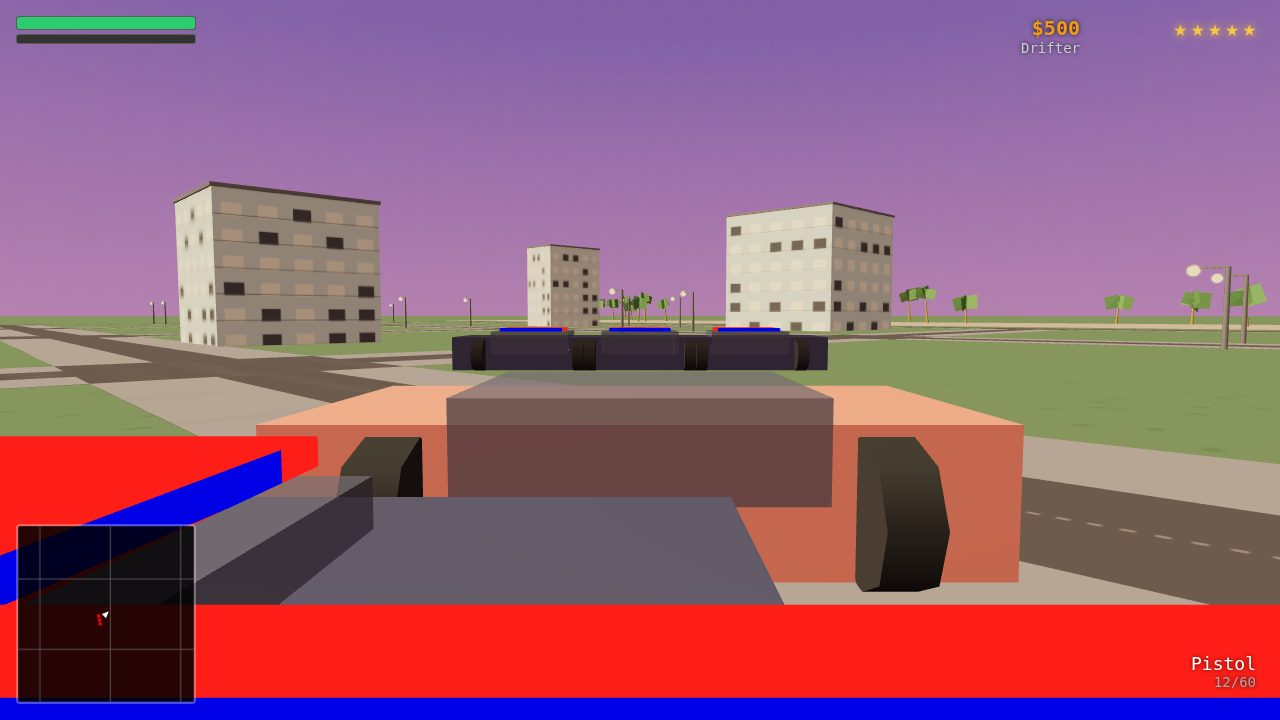
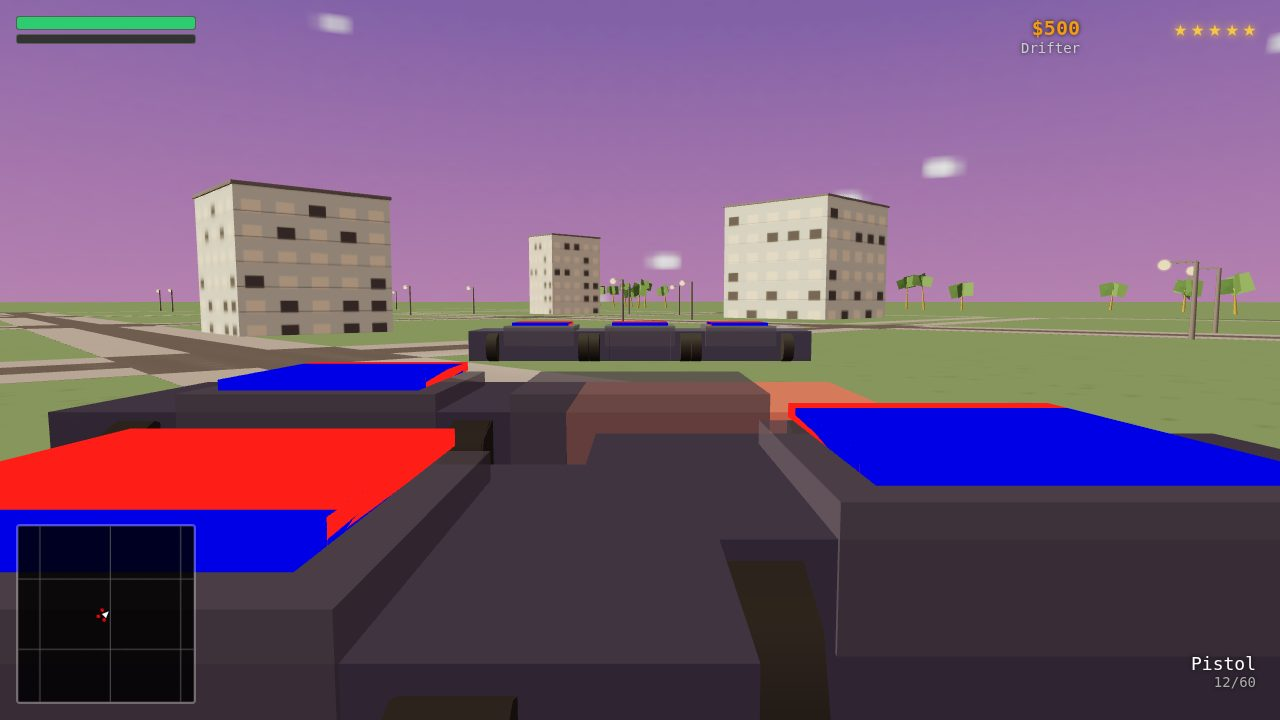
Polish screenshot staging: chase geometry, mission enemies, drive on-road

diff --git a/game/src/shots.js b/game/src/shots.js
@@ -267,7 +267,11 @@ export async function stageShot(name, seed, gameModules, renderer, scene, camera
   if (name === 'mission') {
     numSteps = 180;
 
-    player.setPlayerPosition(PLACES.coralFin.x, PLACES.coralFin.z, 0);
+    // Player on horizontal road z=64, in front of Coral Fin, facing east down the street
+    var missionPX = 10;
+    var missionPZ = 64;
+    var missionHeading = 0; // east (+x)
+    player.setPlayerPosition(missionPX, missionPZ, missionHeading);
     combat.switchWeapon(2);
 
     var mission = missions.startMission(4);
@@ -276,22 +280,32 @@ export async function stageShot(name, seed, gameModules, renderer, scene, camera
     }
 
     if (mission && mission.enemies) {
-      var enemyPositions = [
-        { x: PLACES.coralFin.x + 10,  z: PLACES.coralFin.z },
-        { x: PLACES.coralFin.x + 12,  z: PLACES.coralFin.z + 6 },
-        { x: PLACES.coralFin.x + 8,   z: PLACES.coralFin.z - 6 },
-        { x: PLACES.coralFin.x + 15,  z: PLACES.coralFin.z + 3 },
-        { x: PLACES.coralFin.x + 14,  z: PLACES.coralFin.z - 3 },
-        { x: PLACES.coralFin.x + 7,   z: PLACES.coralFin.z - 2 },
+      var cosH = Math.cos(missionHeading);
+      var sinH = Math.sin(missionHeading);
+
+      var enemyDefs = [
+        { forward: 6,  lateral: -3 },
+        { forward: 9,  lateral: 2.5 },
+        { forward: 12, lateral: 0 },
       ];
-      for (let i = 0; i < mission.enemies.length; i++) {
-        var e = mission.enemies[i];
-        var ep = enemyPositions[i] || enemyPositions[0];
-        e.x = ep.x;
-        e.z = ep.z;
-        if (e.mesh) {
-          e.mesh.position.x = ep.x;
-          e.mesh.position.z = ep.z;
+
+      for (var ei = 0; ei < mission.enemies.length; ei++) {
+        var e = mission.enemies[ei];
+        if (ei < 3) {
+          var def = enemyDefs[ei];
+          var ex = missionPX + cosH * def.forward + sinH * def.lateral;
+          var ez = missionPZ + sinH * def.forward - cosH * def.lateral;
+          e.x = ex;
+          e.z = ez;
+          if (e.mesh) {
+            e.mesh.position.x = ex;
+            e.mesh.position.z = ez;
+          }
+        } else {
+          e.alive = false;
+          if (e.mesh && e.mesh.parent) {
+            scene.remove(e.mesh);
+          }
         }
       }
     }
@@ -300,7 +314,11 @@ export async function stageShot(name, seed, gameModules, renderer, scene, camera
   if (name === 'drive') {
     numSteps = 120;
 
-    var sedan = vehicles.createCar('sedan', 380, 64, 0, false);
+    // Vertical road x=384 (Casino Row), car at z=80 heading south (+z)
+    var driveRoadX = 384;
+    var driveCarZ = 80;
+    var driveHeading = Math.PI / 2; // +z
+    var sedan = vehicles.createCar('sedan', driveRoadX, driveCarZ, driveHeading, false);
     if (sedan) {
       vehicles.enterCar(sedan, player.player.mesh);
       player.player.inCar = true;
@@ -309,10 +327,27 @@ export async function stageShot(name, seed, gameModules, renderer, scene, camera
       sedan.aiSpeed = 25;
     }
 
+    var cosDH = Math.cos(driveHeading);
+    var sinDH = Math.sin(driveHeading);
+
+    // Traffic cars 12m and 20m ahead on same road, same direction
+    var traffic1 = vehicles.createCar('taxi', driveRoadX + cosDH * 12, driveCarZ + sinDH * 12, driveHeading, false);
+    if (traffic1) { traffic1.speed = 12; traffic1.aiSpeed = 18; }
+
+    var traffic2 = vehicles.createCar('sports', driveRoadX + cosDH * 20, driveCarZ + sinDH * 20, driveHeading, false);
+    if (traffic2) { traffic2.speed = 15; traffic2.aiSpeed = 20; }
+
+    // Oncoming car 18m ahead in opposite lane (offset laterally by 1 lane width)
+    var oppLane = -3; // negative lateral = opposite lane side
+    var oncomingX = driveRoadX + cosDH * 18 + sinDH * oppLane;
+    var oncomingZ = driveCarZ + sinDH * 18 - cosDH * oppLane;
+    var oncoming = vehicles.createCar('comet', oncomingX, oncomingZ, driveHeading + Math.PI, false);
+    if (oncoming) { oncoming.speed = 10; oncoming.aiSpeed = 16; }
+
+    // Background traffic on Casino Row roads
     const roads = findCasinoRowRoads(world3d);
     const nearbyRoads = roads.length > 0 ? roads : world3d.roads;
-
-    for (let i = 0; i < 18; i++) {
+    for (let i = 0; i < 14; i++) {
       var road = rng.pick(nearbyRoads);
       var isVert = Math.abs(Math.sin(road.angle)) > 0.7;
       var angle = isVert ? Math.PI / 2 : 0;
@@ -344,9 +379,11 @@ export async function stageShot(name, seed, gameModules, renderer, scene, camera
       missions.cleanupMission(missions.activeMission);
       missions.activeMission = null;
     }
-    missions.setBeacon(PLACES.casino.x, PLACES.casino.z);
-    beaconX = PLACES.casino.x;
-    beaconZ = PLACES.casino.z;
+    // Beacon 60m down the same road so light pillar is visible ahead
+    var beaconZ = driveCarZ + 60;
+    missions.setBeacon(driveRoadX, beaconZ);
+    beaconX = driveRoadX;
+    beaconZ = beaconZ;
     missions.showDialogue('Go to the Port Azura Casino');
 
     if (audio) {
@@ -433,11 +470,11 @@ export async function stageShot(name, seed, gameModules, renderer, scene, camera
       police.officers.length = 0;
     }
 
-    // Place 3 cruisers at fixed offsets behind and beside player car
+    // Place 3 cruisers at fixed offsets between car and camera, flanking frame edges
     var cruiserOffsets = [
-      { behind: 8, lateral: 0 },
-      { behind: 6, lateral: 3 },
-      { behind: 10, lateral: -3 },
+      { behind: 5, lateral: -3 },
+      { behind: 6.5, lateral: 3 },
+      { behind: 0, lateral: 4.5 },
     ];
     for (var ci = 0; ci < 3; ci++) {
       var off = cruiserOffsets[ci];
@@ -519,7 +556,7 @@ export async function stageShot(name, seed, gameModules, renderer, scene, camera
     cone.position.set(0, -4.5, 1);
     heliGroup.add(cone);
 
-    heliGroup.position.set(pcx, 35, pcz - 8);
+    heliGroup.position.set(pcx + cosA * 15, 35, pcz + sinA * 15);
     scene.add(heliGroup);
 
     // Force wanted to 5 stars
@@ -546,10 +583,10 @@ export async function stageShot(name, seed, gameModules, renderer, scene, camera
     if (vehicles.playerCar) {
       var pcar = vehicles.playerCar;
       var cca = pcar.angle;
-      var bX = pcar.x - Math.cos(cca) * 8;
-      var bZ = pcar.z - Math.sin(cca) * 8;
-      camera.position.set(bX, 2.5, bZ);
-      camera.lookAt(pcar.x + Math.cos(cca) * 12, 1.2, pcar.z + Math.sin(cca) * 12);
+      var bX = pcar.x - Math.cos(cca) * 11;
+      var bZ = pcar.z - Math.sin(cca) * 11;
+      camera.position.set(bX, 3, bZ);
+      camera.lookAt(pcar.x + Math.cos(cca) * 10, 1.2, pcar.z + Math.sin(cca) * 10);
     }
 
     if (audio && audio.toggleRadio) {
@@ -560,16 +597,18 @@ export async function stageShot(name, seed, gameModules, renderer, scene, camera
   }
 
   if (name === 'mission') {
-    player.player.angle = 0;
+    player.player.angle = missionHeading;
     var ppx = player.player.x;
     var ppz = player.player.z;
     var pa = player.player.angle;
-    var behindX = ppx - Math.cos(pa) * 4;
-    var behindZ = ppz - Math.sin(pa) * 4;
-    var rightX = Math.sin(pa) * 1.5;
-    var rightZ = -Math.cos(pa) * 1.5;
-    camera.position.set(behindX + rightX, 2.2, behindZ + rightZ);
-    camera.lookAt(ppx + Math.cos(pa) * 9, 1.5, ppz + Math.sin(pa) * 9);
+    var cosPA = Math.cos(pa);
+    var sinPA = Math.sin(pa);
+    var behindX = ppx - cosPA * 4.5;
+    var behindZ = ppz - sinPA * 4.5;
+    camera.position.set(behindX, 2.2, behindZ);
+    var lookX = ppx + cosPA * 9 + sinPA * 2.5;
+    var lookZ = ppz + sinPA * 9 - cosPA * 2.5;
+    camera.lookAt(lookX, 1.5, lookZ);
 
     missions.showDialogue("Bea: They're coming for the bar, Rio! Hold them off!");
     renderHUD(hud, player, police, combat, missions, audio, gameModules, 0, 0);
@@ -579,9 +618,9 @@ export async function stageShot(name, seed, gameModules, renderer, scene, camera
     if (vehicles.playerCar) {
       var dcar = vehicles.playerCar;
       var dca = dcar.angle;
-      var dbehindX = dcar.x - Math.cos(dca) * 16;
-      var dbehindZ = dcar.z - Math.sin(dca) * 16;
-      camera.position.set(dbehindX, 5, dbehindZ);
+      var dbehindX = dcar.x - Math.cos(dca) * 9;
+      var dbehindZ = dcar.z - Math.sin(dca) * 9;
+      camera.position.set(dbehindX, 3.5, dbehindZ);
       camera.lookAt(dcar.x + Math.cos(dca) * 15, 2, dcar.z + Math.sin(dca) * 15);
     }
 
